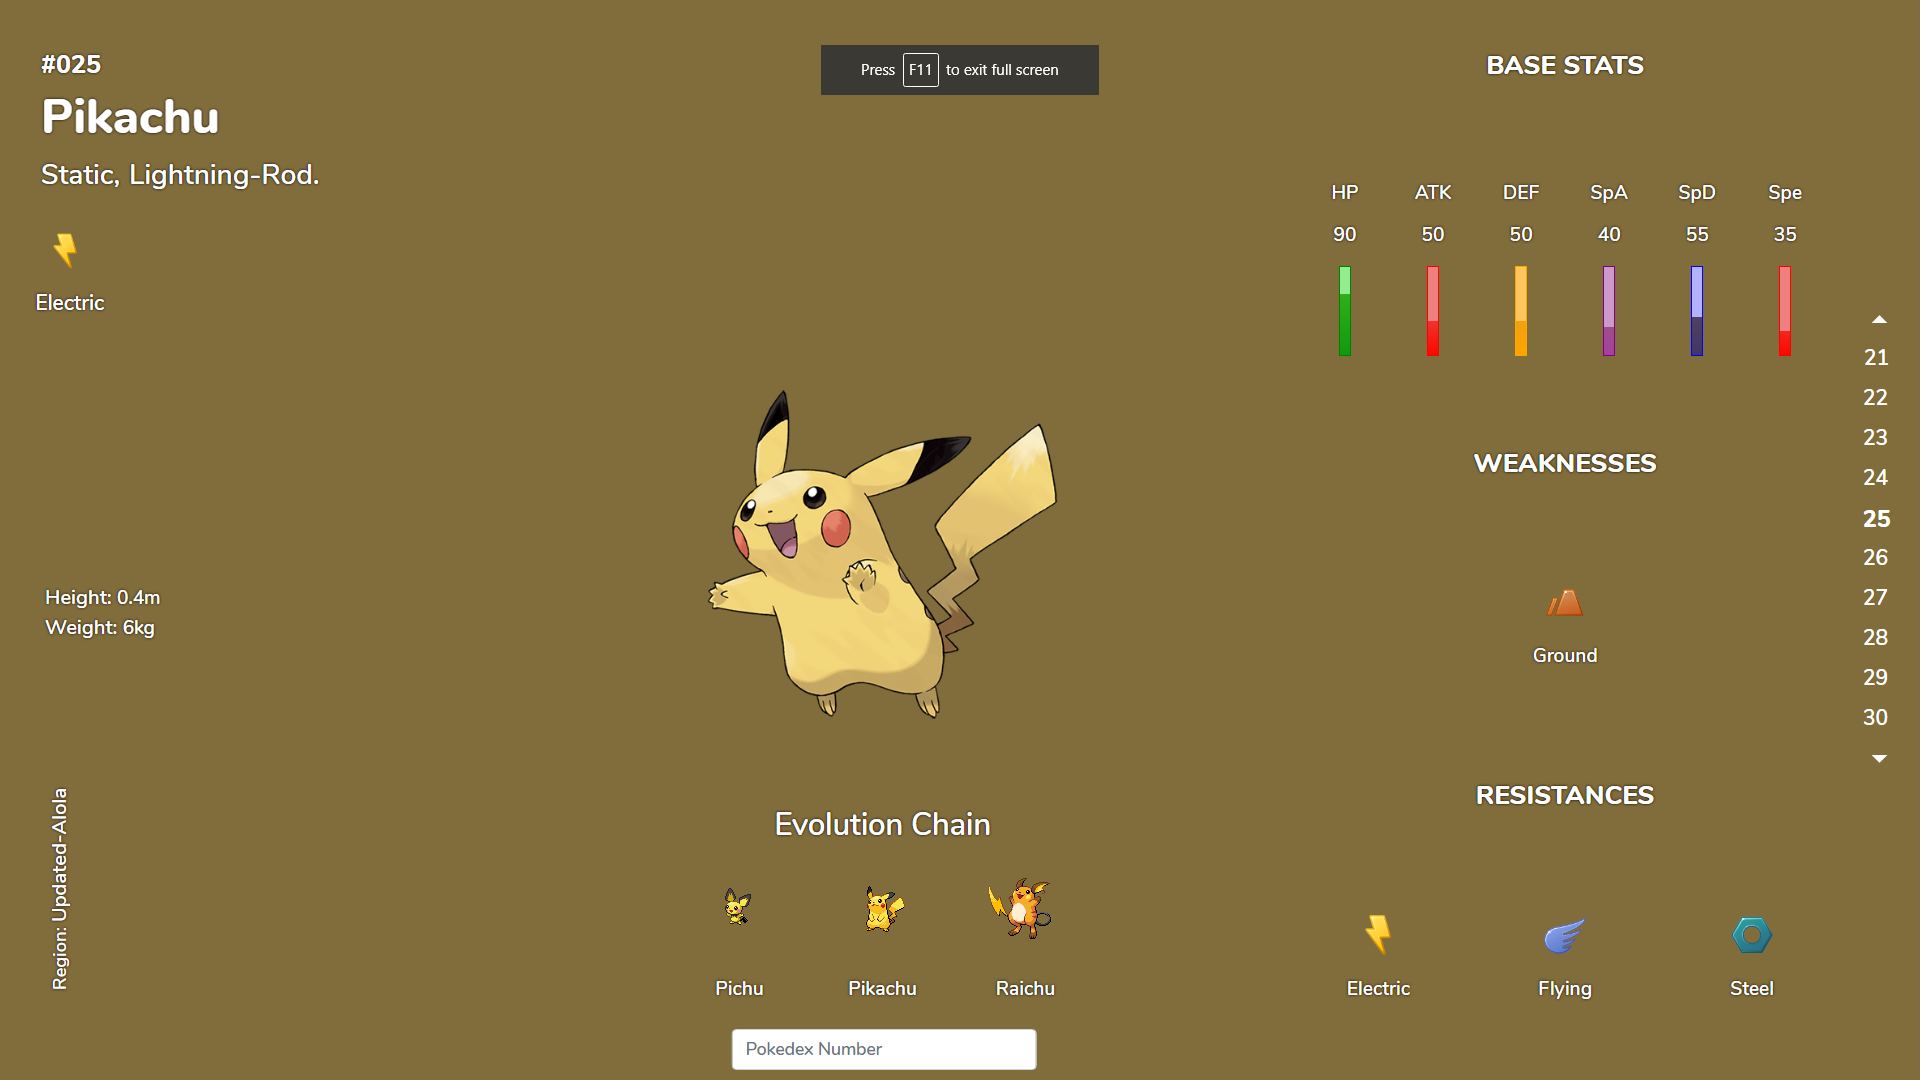
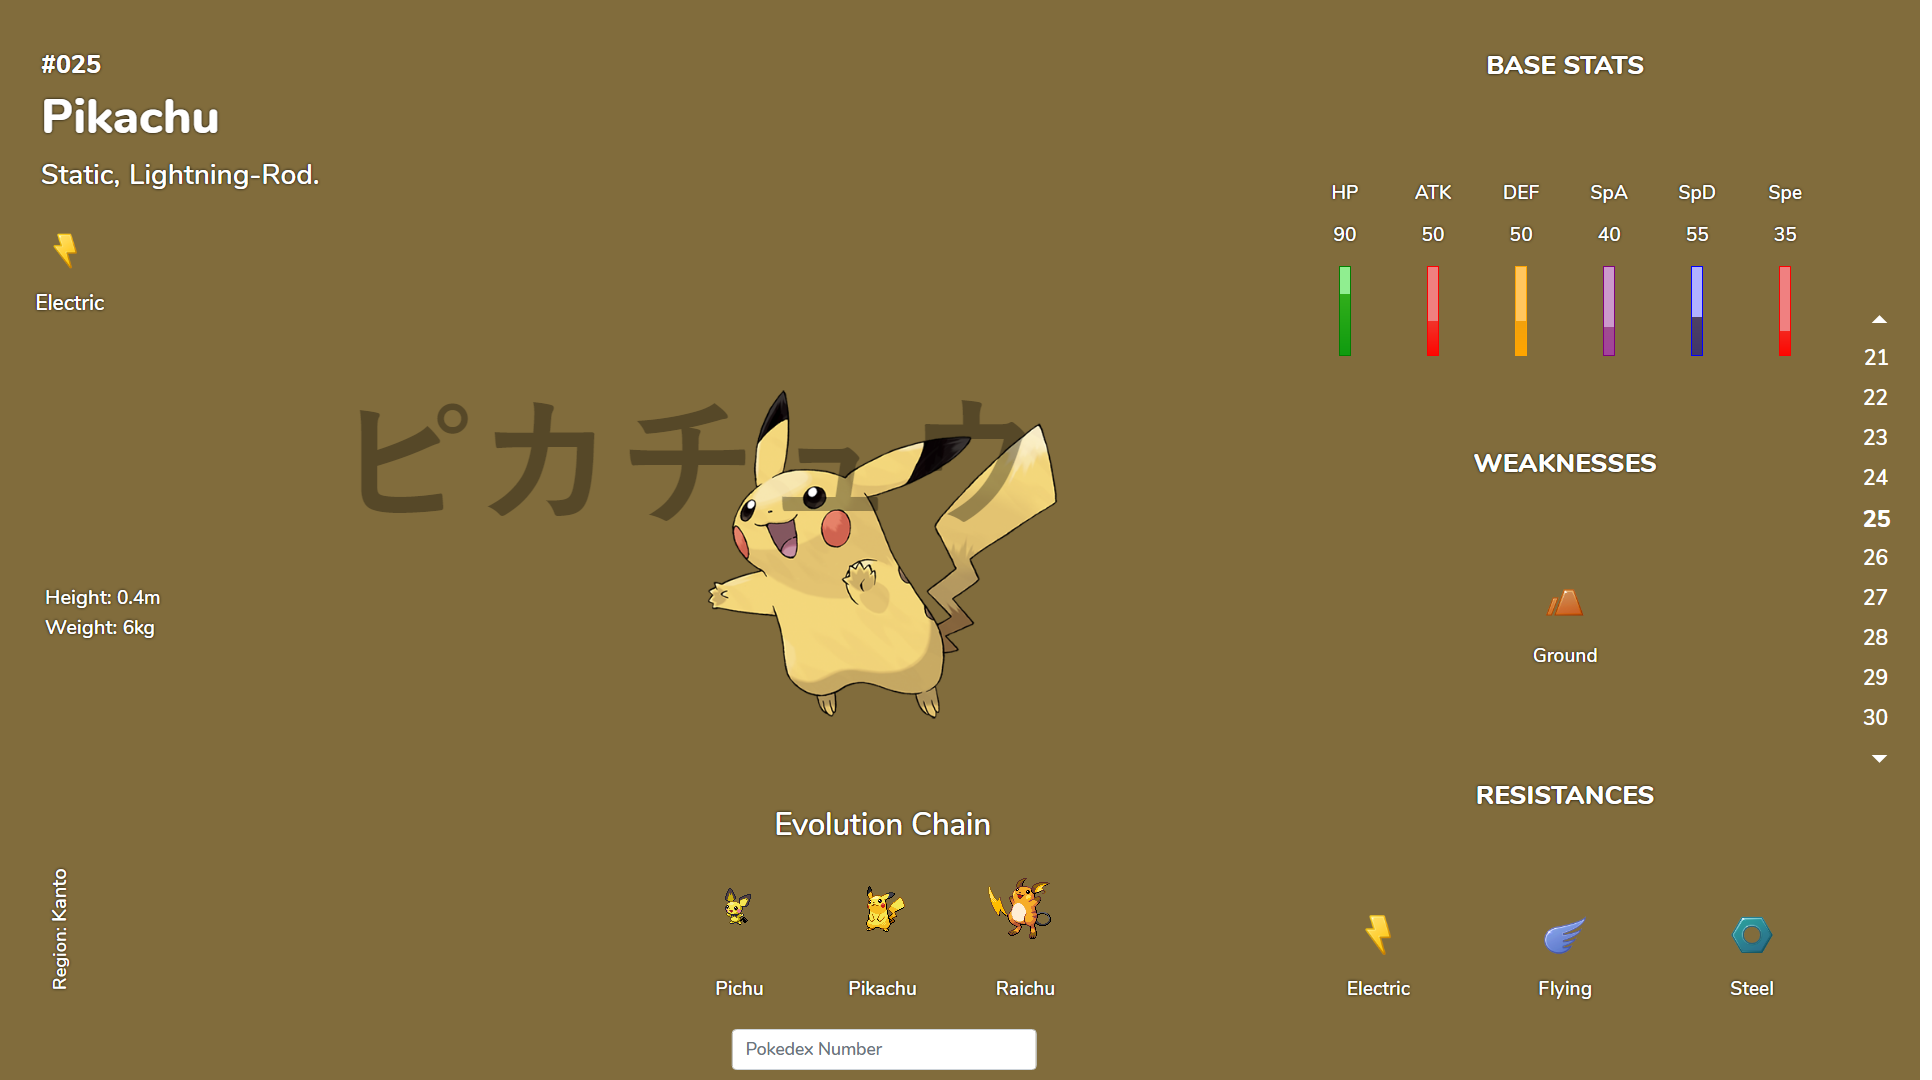
Added the kanji missing in the background

Changed region(s): [[0.1863, 0.3667, 0.528, 0.4889], [0.4037, 0.0306, 0.5901, 0.0917]]

diff --git a/js/ui.js b/js/ui.js
@@ -390,7 +390,9 @@ class UI {
         }
         console.log(dexRegion);
         this.loc.textContent = `${dexRegion}`;
-        console.log(names)
+        let kanji = names.filter(({language}) => {return language.name == "ja"});
+        this.kanji.textContent = `${kanji[0].name}`
+
 
     }
 
